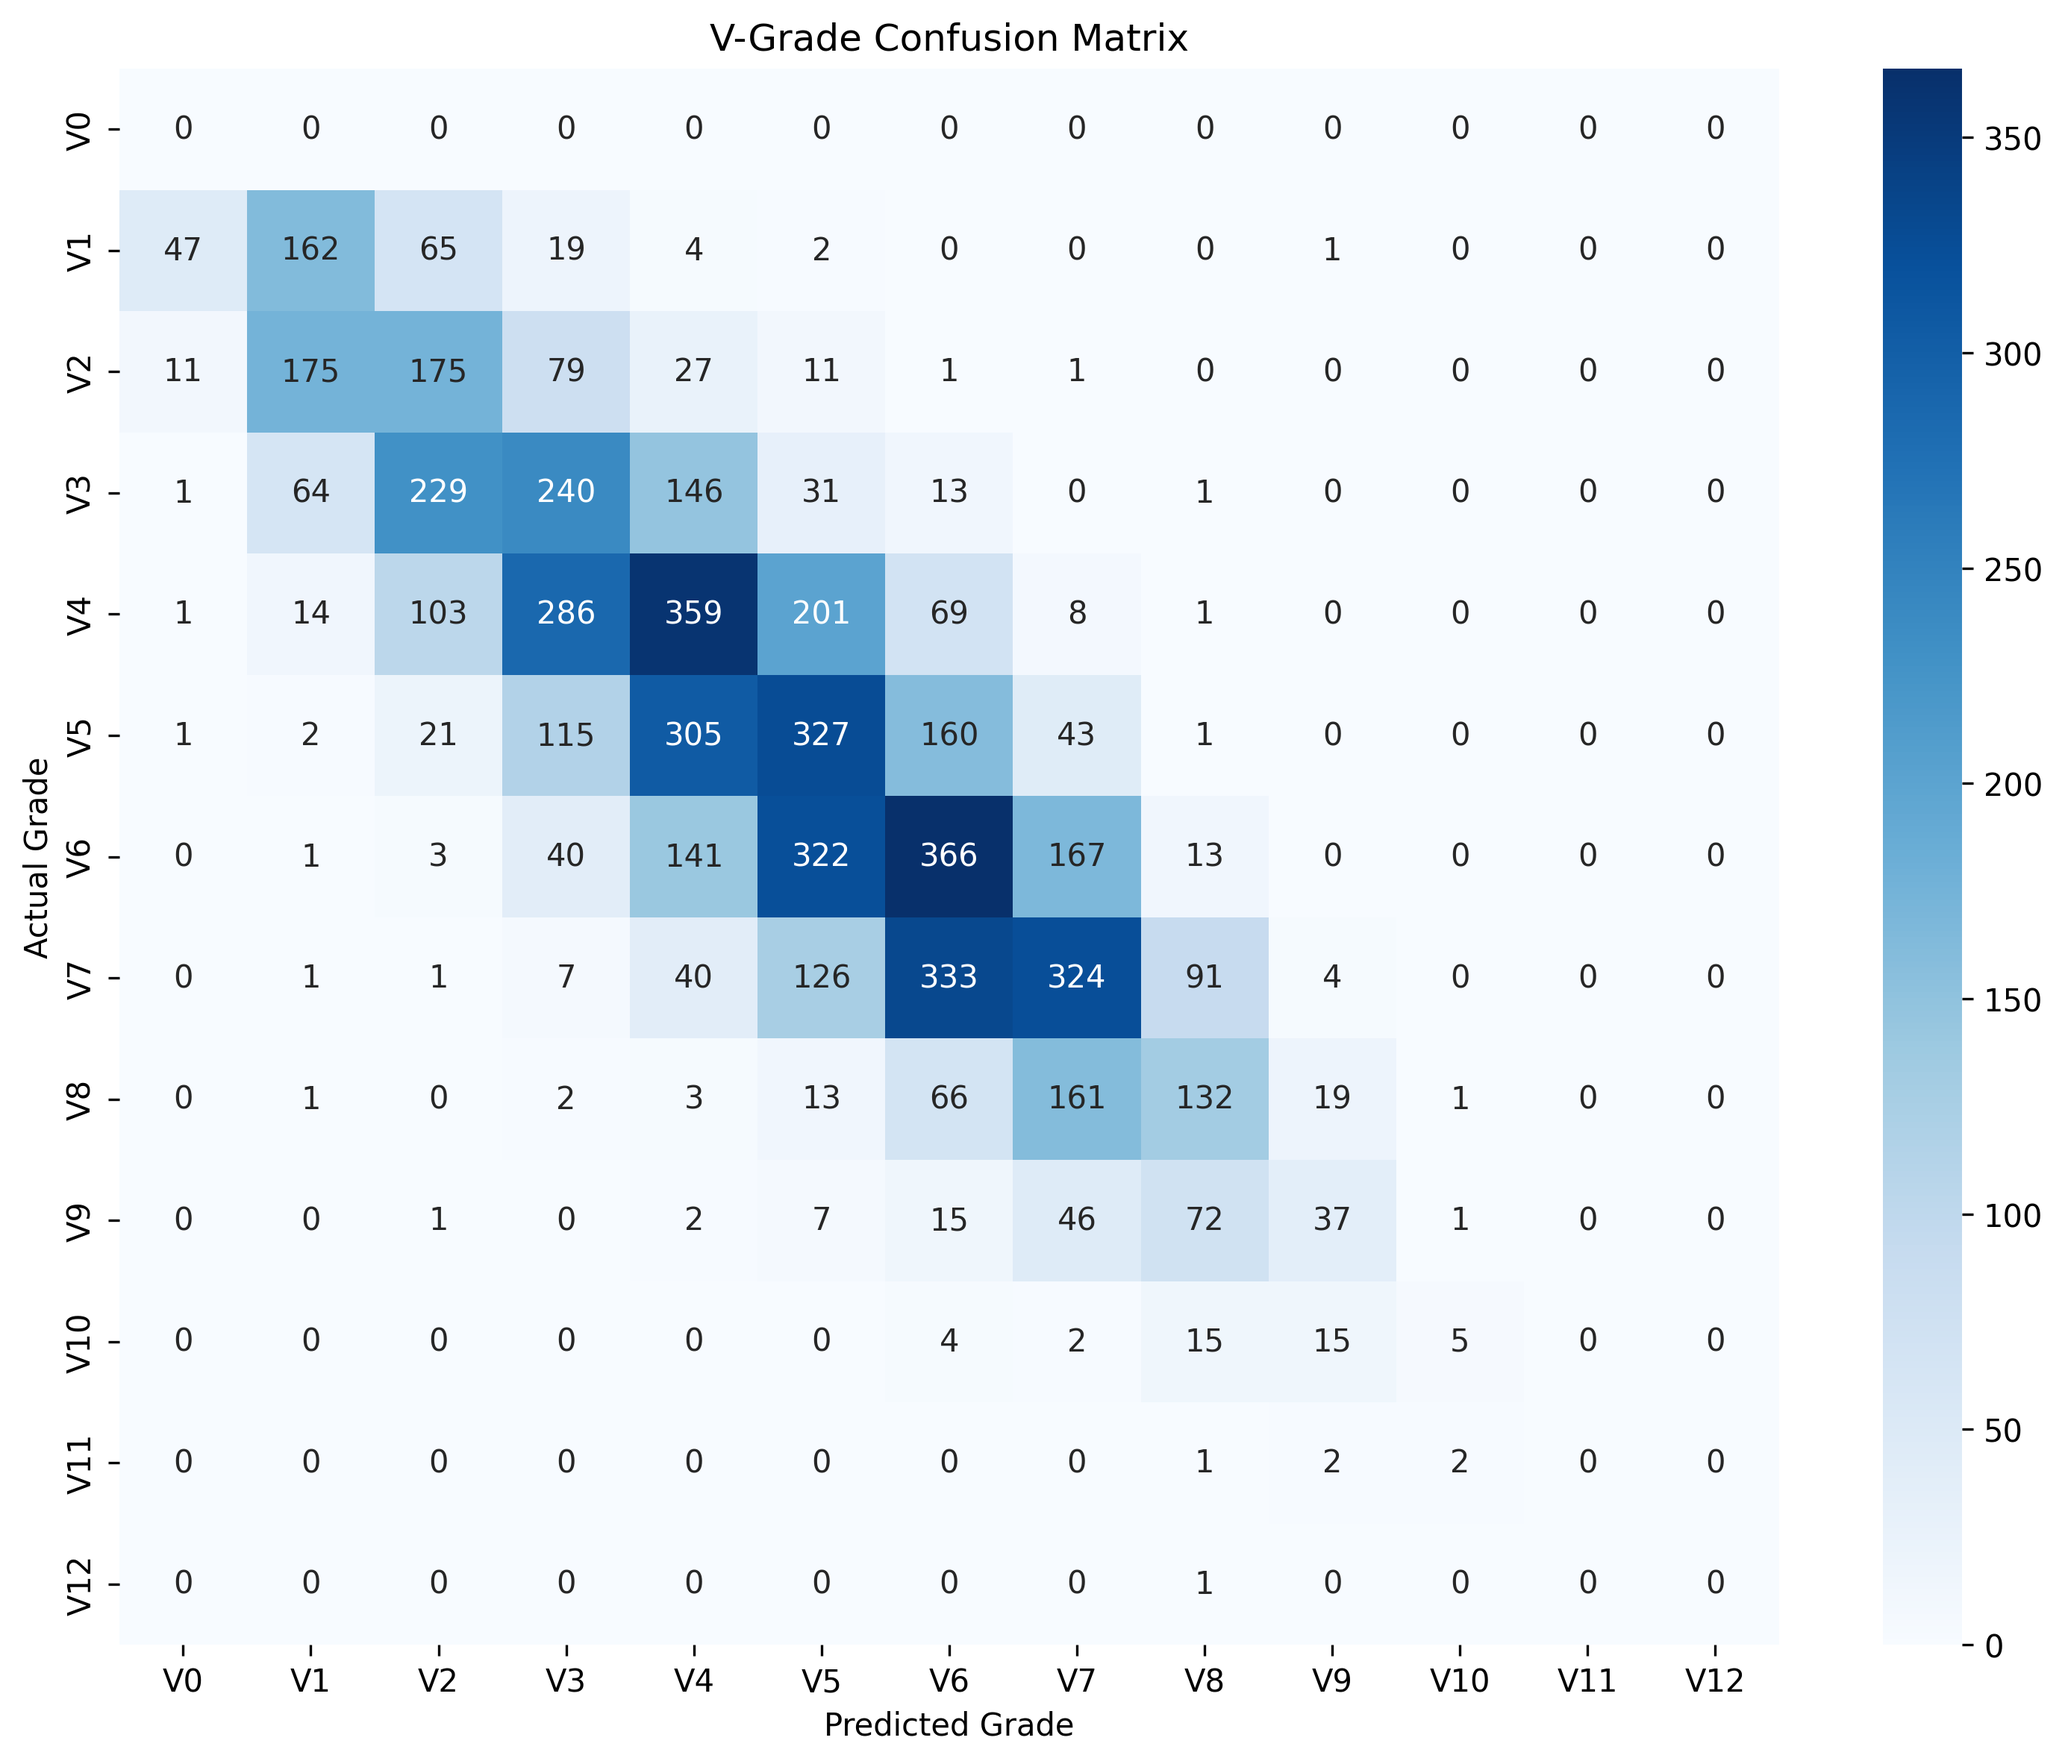
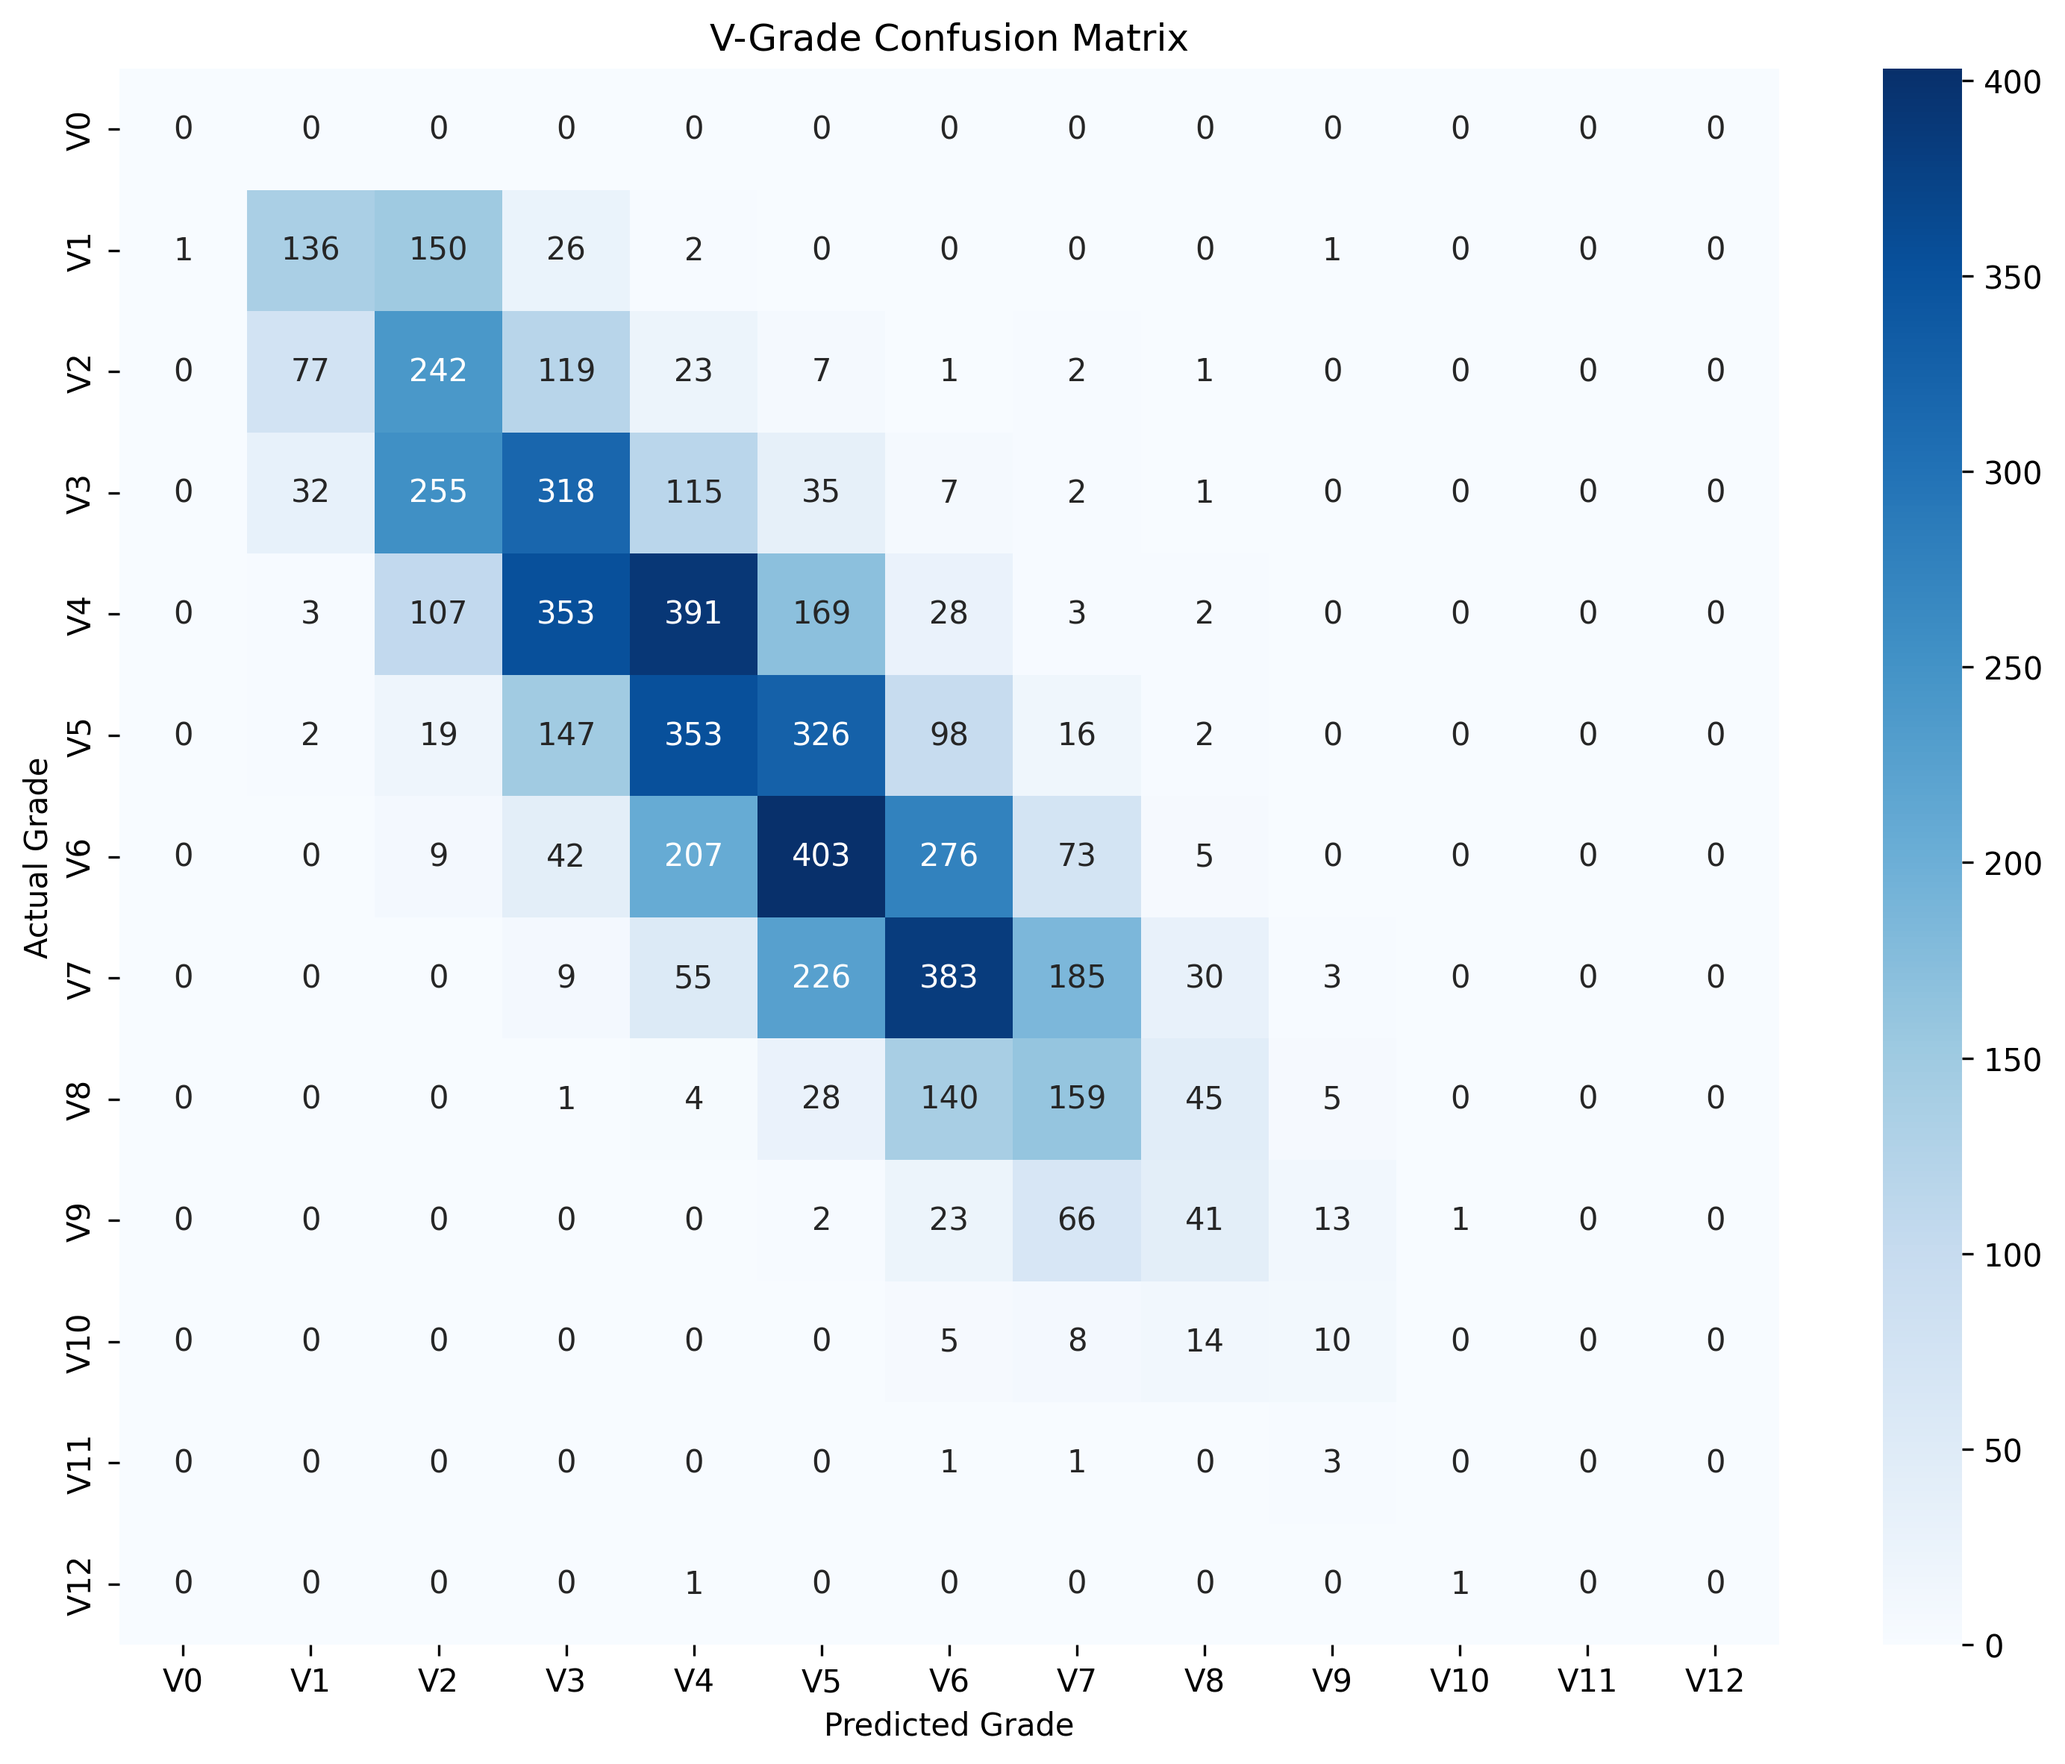
ich weiss es doch auch nicht

diff --git a/src/models/cnn_model.py b/src/models/cnn_model.py
@@ -8,7 +8,7 @@ from sklearn.metrics import mean_squared_error, r2_score, mean_absolute_error
 import ast
 import matplotlib.pyplot as plt
 import seaborn as sns
-from ..features.grade_conversion import difficulty_to_vgrade
+from ..features.grade_conversion import difficulty_to_vgrade, vgrade_to_difficulty
 from collections import Counter
 
 
@@ -325,7 +325,7 @@ def create_v_grade_confusion_matrix(actual, predicted):
     return cm
 
 
-def create_cnn_model(df, hold_data_df, X_train, X_test, y_train, y_test):
+def create_cnn_model(df, hold_data_df, X_train, X_test, y_train, y_test, loss_name="mean_squared_error"):
     """
 Create and train CNN model with standard training (no custom weighting)
    """
@@ -397,16 +397,17 @@ Create and train CNN model with standard training (no custom weighting)
     z = layers.Dense(1024, activation='relu')(combined)
     z = layers.BatchNormalization()(z)
     z = layers.Dropout(0.2)(z)
-    z = layers.Dense(512, activation='relu')(combined)
+    z = layers.Dense(512, activation='relu')(z)
     z = layers.BatchNormalization()(z)
     z = layers.Dropout(0.2)(z)
     z = layers.Dense(256, activation='relu')(z)
     z = layers.Dropout(0.2)(z)
     z = layers.Dense(128, activation='relu')(z)
 
-    # Output layer (predicting a single continuous value)
-    output = layers.Dense(1)(z)
-
+    z = layers.Dense(64, activation='relu')(z)
+    z = layers.Dropout(0.2)(z)
+    output = layers.Dense(1)(z)  # Single continuous output
+    
     # Create model
     model = models.Model(inputs=[grid_input, numerical_input], outputs=output)
 
@@ -417,18 +418,23 @@ Create and train CNN model with standard training (no custom weighting)
         decay_rate=0.95)
     optimizer = tf.keras.optimizers.Adam(learning_rate=lr_schedule)
 
-    # Calculate grade distribution for weighted loss
-    grade_distribution = Counter([difficulty_to_vgrade(g) for g in y_train])
-    print(f"Grade distribution: {dict(grade_distribution)}")
 
-    # Create custom weighted loss
-    #custom_loss = create_custom_weighted_loss(grade_distribution)
-    custom_loss = 'mean_squared_error'  # Use standard MSE for now
+    # choose the loss function 
+    if loss_name == "custom_loss":
+        # Create custom weighted loss function
+        # Calculate grade distribution for weighted loss
+        grade_distribution = Counter([difficulty_to_vgrade(g) for g in y_train])
+        print(f"Grade distribution: {dict(grade_distribution)}")
 
+        loss = create_custom_weighted_loss(grade_distribution)
+    else:
+        # Use given loss
+        print("using {loss_name} loss")
+        loss = loss_name 
 
     # Compile model with weighted loss
     model.compile(optimizer=optimizer,
-                  loss=custom_loss,  # Custom loss for rare grade emphasis
+                  loss=loss,  # Custom loss for rare grade emphasis
                   metrics=['mean_absolute_error'])
 
     # Display model summary
@@ -442,7 +448,7 @@ Create and train CNN model with standard training (no custom weighting)
         restore_best_weights=True)
 
 
-    print("Training with standard MSE loss")
+    print("Training with {loss_name} loss")
     history = model.fit(
         [train_grids, train_features],
         y_train,
@@ -457,13 +463,9 @@ Create and train CNN model with standard training (no custom weighting)
     test_results = model.evaluate([test_grids, test_features], y_test, verbose=1)
 
     # Make predictions
-    try:
-        predictions = model.predict([test_grids, test_features])
-        print(f"Predictions shape: {predictions.shape}")
-    except Exception as e:
-        print(f"Error making predictions: {e}")
-        raise e
-
+    predictions = model.predict([test_grids, test_features])
+    print(f"Predictions shape: {predictions.shape}")
+    
     # Calculate additional metrics
     mse = mean_squared_error(y_test, predictions)
     rmse = np.sqrt(mse)
@@ -510,4 +512,4 @@ Create and train CNN model with standard training (no custom weighting)
         'v_grade_accuracy_one': v_grade_accuracy_one
     }
 
-    return model, history, metrics
+    return model, history, metrics, loss_name

diff --git a/main.py b/main.py
@@ -76,8 +76,8 @@ def main():
     
     # Create and train CNN model (with built-in weighting)
     try:
-        print("\nTraining CNN model with grade and quality weighting...")
-        model, history, metrics = create_cnn_model(boulder_angles_df, hold_data_df, X_train, X_test, y_train, y_test)
+        print("\nTraining CNN model with either custom loss or other specified loss...")
+        model, history, metrics, loss_name = create_cnn_model(boulder_angles_df, hold_data_df, X_train, X_test, y_train, y_test, loss_name="custom_loss")
         
         # Plot training history
         history_plot = plot_training_history(history)
@@ -86,13 +86,13 @@ def main():
         
         # Save model metrics
         with open("reports/model_metrics.txt", "w") as f:
-            f.write("CNN Model Evaluation Metrics (Weighted Training)\n")
+            f.write("CNN Model Evaluation Metrics \n")
             f.write("=" * 50 + "\n")
             for key, value in metrics.items():
                 f.write(f"{key}: {value:.4f}\n")
                 
         # Save model
-        model.save("models/boulder_grade_cnn.h5")
+        model.save("models/boulder_grade_cnn_{loss_name}.h5")
         print("\nModel training completed successfully!")
         print("Files saved:")
         print("  - models/boulder_grade_cnn.h5 (trained model)")
